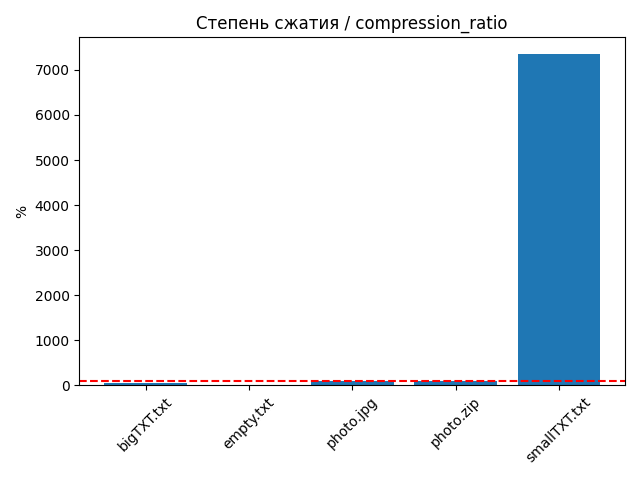
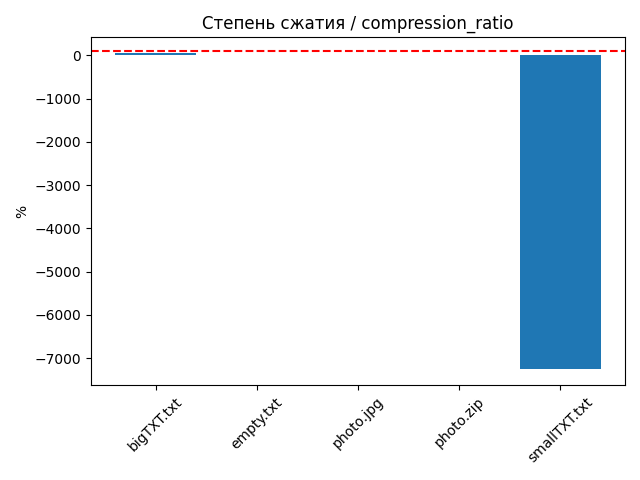
minor fixes in analyze.py

diff --git a/experiments/analyze.py b/experiments/analyze.py
@@ -13,7 +13,7 @@ stats = df.groupby(["file", "type", "original_size", "compressed_size"]).agg(
     decode_std=("decode_time", "std")
 ).reset_index()
 
-stats["compression_ratio"] = stats["compressed_size"] / stats["original_size"] * 100
+stats["compression_ratio"] = (1 - stats["compressed_size"] / stats["original_size"]) * 100
 
 print(stats)
 